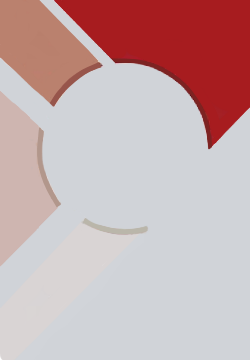
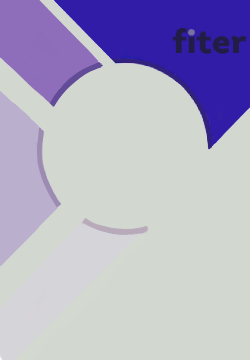
update EmployeeCard visual and implement api

diff --git a/src/pages/MeetTheEmployees/index.tsx b/src/pages/MeetTheEmployees/index.tsx
@@ -1,28 +1,48 @@
 import "./index.css";
 
+import { useEffect, useState } from "react";
+
+import { GetCollaborators } from "../../services/api";
+
 import Header from "../../components/Header";
 import EmployeeCard from "./components/EmployeeCard";
 
 import { Pagination } from "react-bootstrap";
 
 const index = () => {
+  const [collaborators, setCollaborators] = useState([]);
+
+  useEffect(() => {
+    loadCollaboratorsData();
+  }, []);
+
+  const loadCollaboratorsData = async () => {
+    const collaborators = await GetCollaborators(1, 9);
+    setCollaborators(collaborators.data);
+  };
+
+  console.log(collaborators);
+
   return (
     <>
       <Header />
       <div className="meet__the__employees__background"></div>
       <div className="meet__the__employees">
         <div className="employes__board__margin"></div>
-        <p className="employes__board__title">
+        <div className="employes__board__title">
           <div></div>
           <h2>Conheça nossos colaboradores</h2>
-        </p>
+        </div>
         <div className="employes__board">
-          <EmployeeCard />
-          <EmployeeCard />
-          <EmployeeCard />
-          <EmployeeCard />
-          <EmployeeCard />
-          <EmployeeCard />
+          {collaborators.map((collaborator) => (
+            <EmployeeCard
+              key={collaborator.id}
+              name={collaborator.nome}
+              role={collaborator.cargo}
+              phone={collaborator.telefone}
+              profileImg={collaborator.foto}
+            />
+          ))}
         </div>
         <div className="meet__the__employees__pagination">
           <Pagination>

diff --git a/src/pages/MeetTheEmployees/components/EmployeeCard/index.tsx b/src/pages/MeetTheEmployees/components/EmployeeCard/index.tsx
@@ -6,7 +6,14 @@ import CardCollar from "./components/CardCollar";
 
 import "./index.css";
 
-const index = () => {
+type Props = {
+  name: string;
+  role: string;
+  phone: string;
+  profileImg: string;
+};
+
+const index: React.FC<Props> = ({ name, role, phone, profileImg }) => {
   // eslint-disable-next-line @typescript-eslint/no-explicit-any
   function Tilt(props: any) {
     const { tiltOptions, ...rest } = props;
@@ -35,13 +42,13 @@ const index = () => {
           <CardCollar />
           <img
             className="employee__card__image"
-            src="https://picsum.photos/200"
-            alt=""
+            src={profileImg}
+            alt="collaborator profile image"
           />
           <div className="employee__card__info">
-            <h3>Sergio Amad</h3>
-            <h4>Founder & CEO</h4>
-            <p>Telefone: 11921345675"</p>
+            <h3>{name}</h3>
+            <h4>{role}</h4>
+            <p>Telefone: {phone}</p>
           </div>
         </div>
       </Tilt>

diff --git a/src/pages/MeetTheEmployees/components/EmployeeCard/index.css b/src/pages/MeetTheEmployees/components/EmployeeCard/index.css
@@ -20,11 +20,10 @@
 }
 
 .employee__card__collar__mockup {
-  background-color: #8f909b;
-  background: url("../../../../assets/FiterBadge.png");
+  background-color: #7a7b83;
   background-size: cover;
   outline: #1b1b1b 4px solid;
-  border: solid #464646 5px;
+  border: solid #464646 7px;
   position: relative;
   margin: 0 auto;
   height: 50px;
@@ -34,13 +33,25 @@
   margin-bottom: 40px;
 }
 
-.employee__card__info h3{
+.employee__card__info h3 {
+  font-size: 1.6rem;
+  margin: 0 auto;
+  width: 90%;
+  overflow: hidden;
+  text-overflow: ellipsis;
+  white-space: nowrap;
+  margin-top: 3px;
   margin-bottom: 3px;
 }
 
 .employee__card__info h4 {
-  font-size: 1.2rem;
-  color: rgb(61, 61, 61);
+  font-size: 1.1rem;
+  margin: 0 auto;
+  width: 90%;
+  color: rgb(71, 71, 71);
+  max-width: 25ch;
+  overflow: hidden;
+  text-overflow: ellipsis;
 }
 
 .employee__card__info p {

diff --git a/src/services/api.ts b/src/services/api.ts
@@ -1,0 +1,9 @@
+const API_BASE =
+  "https://api-frontend-chalenge-fiter.herokuapp.com/api/collaborators";
+
+import axios from "axios";
+
+export const GetCollaborators = async (page: number, limit: number) => {
+  const response = axios.get(`${API_BASE}?_page=${page}&_limit=${limit}`);
+  return response;
+};

diff --git a/src/pages/MeetTheEmployees/components/EmployeeCard/components/CardCollar/index.css b/src/pages/MeetTheEmployees/components/EmployeeCard/components/CardCollar/index.css
@@ -11,7 +11,7 @@
 .employee__card__collar__fit {
   height: 90px;
   width: 30px;
-  background-color: rgb(155, 41, 41);
+  background-color: rgb(115, 34, 161);
   z-index: 100;
   border-bottom-left-radius: 2px;
   border-bottom-right-radius: 2px;

diff --git a/src/pages/MeetTheEmployees/index.css b/src/pages/MeetTheEmployees/index.css
@@ -38,7 +38,7 @@
 }
 
 .employes__board__title h2 {
-  font-size: 2.3rem;
+  font-size: 2.4rem;
   padding-top: 5px;
   font-weight: 300;
 }
